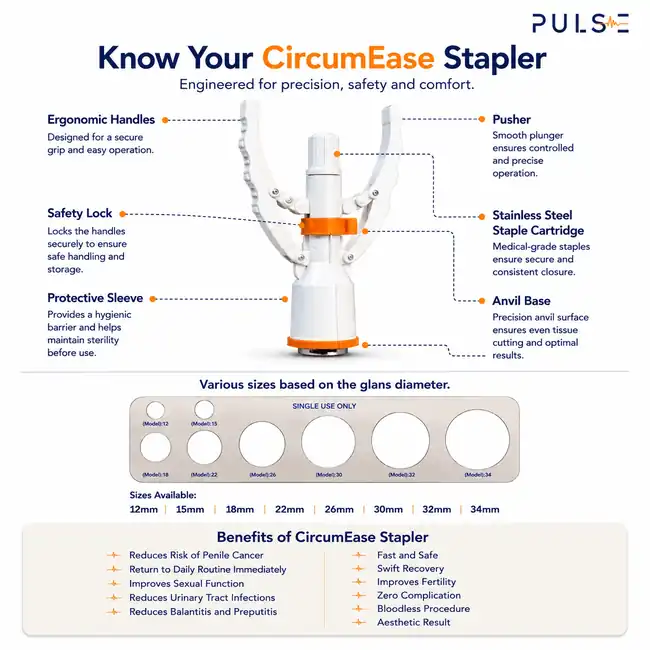
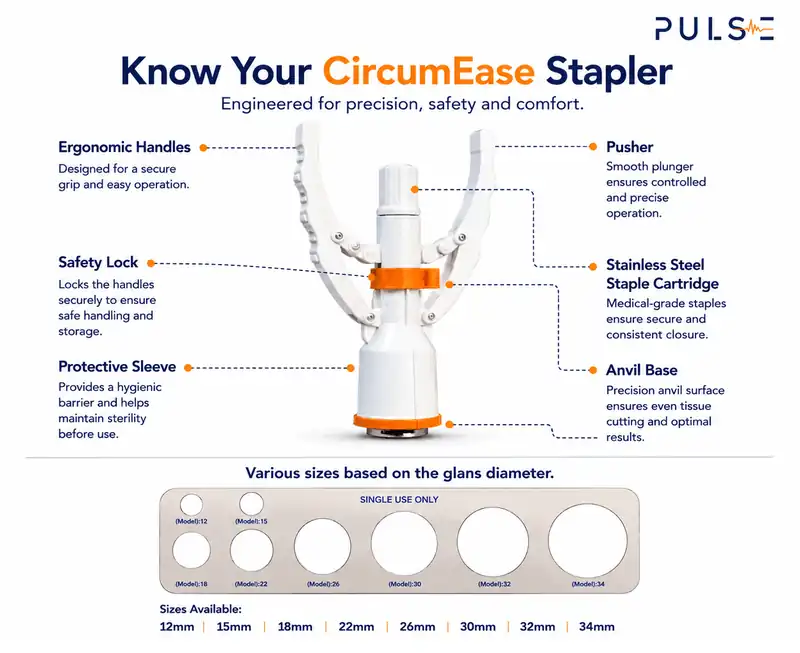
CircumEase: remove images carrying unapproved claims
- Gallery: drop the box image (circumease-3) that prints "Zero Complication",
  "Improves Fertility", "Swift Recovery", "Bloodless".
- circumease-2: cropped off the "Benefits" panel (same claims plus "Improves
  Sexual Function"); parts diagram and 12-34 mm size chart kept. 800x653, 31 KB.
- Header search suggestion uses the main product photo.
- Sitemap: image entries point to the clean files; lastmod 2026-11-03 for
  the product page and surgical.html.
- DB: box image row removed, alt text updated (matches page).

Claude-Session: https://claude.ai/code/session_01CrYrhG8AJb47ftw8MCPBnA

diff --git a/surgical-care/circumease-stapler.html b/surgical-care/circumease-stapler.html
@@ -336,8 +336,7 @@
     <div class="product-hero-images">
       <div class="product-thumb-strip">
         <img src="/image/Surgical/circumease-1.opt.webp" alt="CircumEase Disposable Circumcision Stapler view 1" class="active" onclick="setMainImage(this)" width="1254" height="1254" data-sz>
-        <img src="/image/Surgical/circumease-2.opt.webp" alt="CircumEase Disposable Circumcision Stapler Kit" onclick="setMainImage(this)" width="1000" height="1000" data-sz>
-        <img src="/image/Surgical/circumease-3.opt.webp" alt="CircumEase Disposable Circumcision Kit" onclick="setMainImage(this)" width="800" height="800" data-sz>
+        <img src="/image/Surgical/circumease-2.opt.webp" alt="CircumEase stapler parts and size chart, 12 to 34 mm" onclick="setMainImage(this)" width="800" height="653" data-sz>
       </div>
       <div class="product-main-image">
         <img id="mainProductImage" src="/image/Surgical/circumease-1.opt.webp" alt="CircumEase Disposable Circumcision Stapler — Disposable Circumcision Kit" width="1254" height="1254" data-sz>

diff --git a/js/header.js b/js/header.js
@@ -1022,7 +1022,7 @@ document.addEventListener('DOMContentLoaded', function() {
 
                                         "name": "CircumEase Stapler",
 
-                                        "image": "/image/Surgical/circumease-3.opt.webp",
+                                        "image": "/image/Surgical/circumease-1.opt.webp",
 
                                         "href": "/surgical-care/circumease-stapler/"
 
